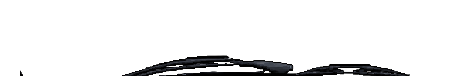
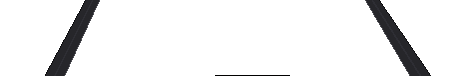
959: números do velocímetro menores, para-brisa limpo e colunas do para-brisa
- Fonte 5x7 em meio pixel (entre as duas que havia) no velocímetro do 959, com
  números de 50 em 50.
- Acima da borda do painel (limpadores e ponta de coluna cortados na arte) agora é
  vidro; colunas do para-brisa desenhadas dos dois lados até o teto.

Claude-Session: https://claude.ai/code/session_01MLD9VR7gkmY4w6a9beZcp6

Changed region(s): [[0.2435, 0.0, 0.9435, 1.0], [0.0913, 0.0, 0.2435, 1.0], [0.0304, 0.9474, 0.0609, 1.0]]

diff --git a/src/cockpit.ts b/src/cockpit.ts
@@ -1,7 +1,7 @@
 import { DASH_Y, KMH, ROOF_H, view } from './config';
 import type { Race } from './race';
 import { renderMirror, renderRoad, type Viewport } from './render3d';
-import { pix, pixWidth } from './pixfont';
+import { pix, pix7, pix7Width, pixWidth } from './pixfont';
 import { dither, speckle, text } from './ui';
 import { clamp, formatTime, lerp, rng, shade } from './util';
 import { F40_WHEEL } from './svg/f40';
@@ -71,7 +71,7 @@ const COCKPIT_ART: Record<string, CockpitArt> = {
   // 959: interior completo do Victor; os cinco mostradores redesenhados com números maiores
   '959': { dash: dash959Png, top: top959Png, wheel: wheel959Png, pivot: [128.1, 93.3],
     tach: { x: 128, y: 54, r: 28, max: 8, labels: [0, 1, 2, 3, 4, 5, 6, 7, 8], tick: 0.5, red: 6.5, a0: 2.53, sweep: 4.28, labelScale: 1 },
-    speed: { x: 180, y: 57, r: 21, max: 300, labels: [0, 100, 200, 300], tick: 10, red: 999, a0: 2.45, sweep: 4.4, labelScale: 1 },
+    speed: { x: 180, y: 57, r: 21, max: 300, labels: [0, 50, 100, 150, 200, 250, 300], tick: 10, red: 999, a0: 2.45, sweep: 4.4, labelScale: 0.7 },
     speedMax: 300, needle: '#ff6a1a', hub: '#1a1a1a',
     aux: [
       { x: 28, y: 57, r: 19, kind: 'twin', show: ['oil', 'oiltemp'], icon: 'oil' },
@@ -210,8 +210,14 @@ function artDial(c: CanvasRenderingContext2D, d: Dial, ox: number, frac: number,
     // altura no alto), para os de cima não se encostarem
     const a = fr(v);
     const ls = d.labelScale ?? 0.5;
+    const col = v >= d.red ? '#ff5a4a' : '#f2f2f2';
+    if (ls === 0.7) {  // fonte 5x7 em meio pixel (tamanho intermediário)
+      const [lx, ly] = at(a, r - 2.8 - Math.abs(Math.cos(a)) * pix7Width(l) * 0.55 - Math.abs(Math.sin(a)) * 1.9);
+      pix7(c, l, lx, ly, col);
+      continue;
+    }
     const [lx, ly] = at(a, r - (ls > 0.5 ? 3.2 : 2.3) - (Math.abs(Math.cos(a)) * pixWidth(l, ls) * 0.5 + Math.abs(Math.sin(a)) * 2.5 * ls) * (ls > 0.5 ? 1.3 : 1) - (ls > 0.5 ? 0.6 : 0));
-    pix(c, l, lx, ly, v >= d.red ? '#ff5a4a' : '#f2f2f2', ls);
+    pix(c, l, lx, ly, col, ls);
   }
   needle(c, cx, cy, r, a0 + sweep * Math.max(0, Math.min(1.02, frac)), art);
 }

diff --git a/src/pixfont.ts b/src/pixfont.ts
@@ -40,3 +40,33 @@ export function pix(c: CanvasRenderingContext2D, s: string, x: number, y: number
     px += 4 * scale;
   }
 }
+
+// Dígitos de 5x7 em meio pixel: tamanho entre o 3x5 inteiro e o 3x5 em meio pixel
+const GLYPHS7: Record<string, string[]> = {
+  '0': ['01110', '10001', '10011', '10101', '11001', '10001', '01110'],
+  '1': ['00100', '01100', '00100', '00100', '00100', '00100', '01110'],
+  '2': ['01110', '10001', '00001', '00010', '00100', '01000', '11111'],
+  '3': ['11110', '00001', '00001', '01110', '00001', '00001', '11110'],
+  '4': ['00010', '00110', '01010', '10010', '11111', '00010', '00010'],
+  '5': ['11111', '10000', '11110', '00001', '00001', '10001', '01110'],
+  '6': ['00110', '01000', '10000', '11110', '10001', '10001', '01110'],
+  '7': ['11111', '00001', '00010', '00100', '01000', '01000', '01000'],
+  '8': ['01110', '10001', '10001', '01110', '10001', '10001', '01110'],
+  '9': ['01110', '10001', '10001', '01111', '00001', '00010', '01100'],
+};
+
+export function pix7Width(s: string) {
+  return (s.length * 6 - 1) * 0.5;
+}
+
+// (x, y) = centro do texto, em meio pixel
+export function pix7(c: CanvasRenderingContext2D, s: string, x: number, y: number, color: string) {
+  c.fillStyle = color;
+  let px = Math.round((x - pix7Width(s) / 2) * 2) / 2;
+  const py = Math.round((y - 1.75) * 2) / 2;
+  for (const ch of s) {
+    const g = GLYPHS7[ch];
+    if (g) for (let r = 0; r < 7; r++) for (let k = 0; k < 5; k++) if (g[r][k] === '1') c.fillRect(px + k * 0.5, py + r * 0.5, 0.5, 0.5);
+    px += 3;
+  }
+}

diff --git a/tools/ref/import_cockpit.py b/tools/ref/import_cockpit.py
@@ -35,6 +35,11 @@ CARS = {
         'left': 'replicate', 'sky_above': 140,
         'hub_fill': ((22, 22, 25), 330),
         'wheel_rows': 190, 'paint': 'column', 'rim_margin': 9, 'hole_sky_above': 90,
+        # borda de cima do painel na arte (acima: limpadores e ponta da coluna, que viram vidro)
+        'dash_curve': [(0, 150), (100, 135), (200, 118), (300, 100), (400, 85), (500, 75), (600, 68),
+                       (700, 64), (800, 63), (900, 66), (1000, 72), (1100, 78), (1200, 84), (1300, 90),
+                       (1450, 95), (1680, 100)],
+        'pillars': [(92, 40, 104, 14, 22), (372, 428, 88, 14, 22)],
     },
     # viatura: interior completo desenhado pelo Victor (porta, painel, console e passageiro)
     'patrol': {
@@ -63,6 +68,13 @@ def sample(img, w, h):
     xs = ((np.arange(w) + 0.5) * img.shape[1] / w).astype(int)
     ys = ((np.arange(h) + 0.5) * img.shape[0] / h).astype(int)
     return img[ys][:, xs]
+
+
+def above_curve(pts, ox, oy, h, w):
+    """Máscara do que fica acima de uma linha (pontos x, y da arte), no recorte que começa em (ox, oy)."""
+    xs, ys = zip(*pts)
+    yc = np.interp(np.arange(w) + ox, xs, ys) - oy
+    return np.arange(h)[:, None] < yc[None, :]
 
 
 def hexrgb(c):
@@ -207,6 +219,33 @@ def paint_column(rgb, a, pivot, hub):
                 put(x, y, '#1b1c1f')  # painel embaixo do volante (joelhos)
 
 
+def paint_pillars(top, dash, pillars):
+    """Colunas do para-brisa (a arte corta antes delas): faixas inclinadas do painel até o teto.
+    Cada uma: (x no teto, x no painel, linha onde encosta no painel, largura em cima, embaixo),
+    em pixels nativos; linhas contadas do teto (topo + painel empilhados)."""
+    EXTR = top.shape[0]
+
+    def put(x, y, c):
+        img = top if y < EXTR else dash
+        yy = y if y < EXTR else y - EXTR
+        if 0 <= x < img.shape[1] and 0 <= yy < img.shape[0]:
+            img[yy, x, :3] = hexrgb(c)
+            img[yy, x, 3] = 255
+
+    for xt, xb, yb, wt, wb in pillars:
+        inner = 1 if xb < xt else -1  # lado de dentro (voltado para o centro) recebe a luz
+        for y in range(0, int(yb) + 1):
+            t = y / yb
+            cx, hw = xt + (xb - xt) * t, (wt + (wb - wt) * t) / 2
+            x0, x1 = int(round(cx - hw)), int(round(cx + hw))
+            for x in range(x0, x1 + 1):
+                c = '#26262a'
+                if (x == x1 and inner > 0) or (x == x0 and inner < 0): c = '#4c4c52'
+                elif (x == x0 and inner > 0) or (x == x1 and inner < 0): c = '#0e0e10'
+                elif abs(x - cx) < 1: c = '#2e2e34'
+                put(x, y, c)
+
+
 def paint_mirror(top, dash, art_l, sill_f):
     """Retrovisor externo no canto da frente do vidro lateral, encostado na coluna da porta.
     Ocupa o fim do topo (linhas negativas) e o começo do painel."""
@@ -320,6 +359,8 @@ def main():
             if ff[y, 0] == 1:
                 cv2.floodFill(ff, msk, (0, y), 2)
     sky = ff == 2
+    if 'dash_curve' in cfg:  # acima da borda do painel (limpadores, ponta da coluna) é vidro
+        sky |= above_curve(cfg['dash_curve'], x0, y0 - tpad, h, w)
     if 'sky_above' in cfg:
         pc = padcols[x0 + pad_x0:x1 + pad_x0]
         rows = np.arange(h) + (y0 - tpad) < cfg['sky_above']
@@ -378,6 +419,8 @@ def main():
                 if tsky[y_, 0] == 1:
                     cv2.floodFill(tsky, tm, (0, y_), 2)
         talpha = tsky != 2
+        if 'dash_curve' in cfg:
+            talpha &= ~above_curve(cfg['dash_curve'], x0, ty0 - tpad, th_, tw_)
         if 'hole_sky_above' in cfg:  # topo do aro que passa da linha 100: no topo fica só o céu
             tw = np.zeros((th_, tw_), np.uint8)
             cv2.fillPoly(tw, [(np.array(geo['outer'], np.float32) - [x0, ty0 - tpad]).round().astype(np.int32)], 1)
@@ -390,6 +433,12 @@ def main():
         t_rgb = sample(cv2.cvtColor(timg, cv2.COLOR_BGR2RGB), nw, EXT)
         t_a = sample(talpha.astype(np.uint8) * 255, nw, EXT)
         Image.fromarray(np.dstack([t_rgb, t_a]), 'RGBA').save(f'{outdir}/{car}-top.png')
+    if 'pillars' in cfg:
+        tp, dp = f'{outdir}/{car}-top.png', f'{outdir}/{car}-dash.png'
+        top_i, dash_i = np.array(Image.open(tp).convert('RGBA')), np.array(Image.open(dp).convert('RGBA'))
+        paint_pillars(top_i, dash_i, cfg['pillars'])
+        Image.fromarray(top_i, 'RGBA').save(tp)
+        Image.fromarray(dash_i, 'RGBA').save(dp)
     if cfg.get('paint') == 'patrol':
         tp, dp = f'{outdir}/{car}-top.png', f'{outdir}/{car}-dash.png'
         top_i, dash_i = np.array(Image.open(tp).convert('RGBA')), np.array(Image.open(dp).convert('RGBA'))
